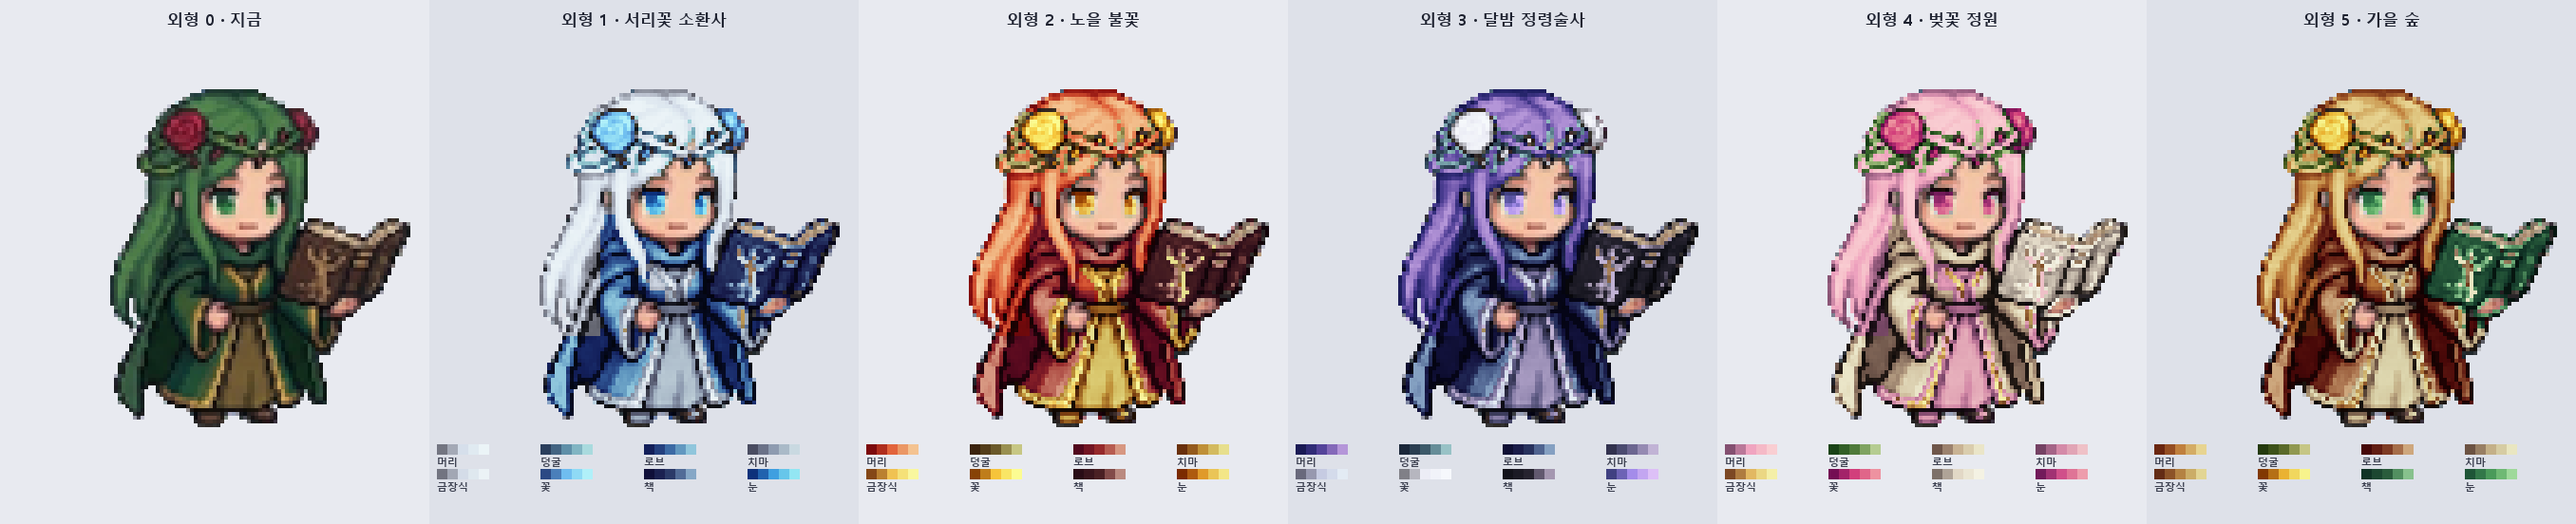
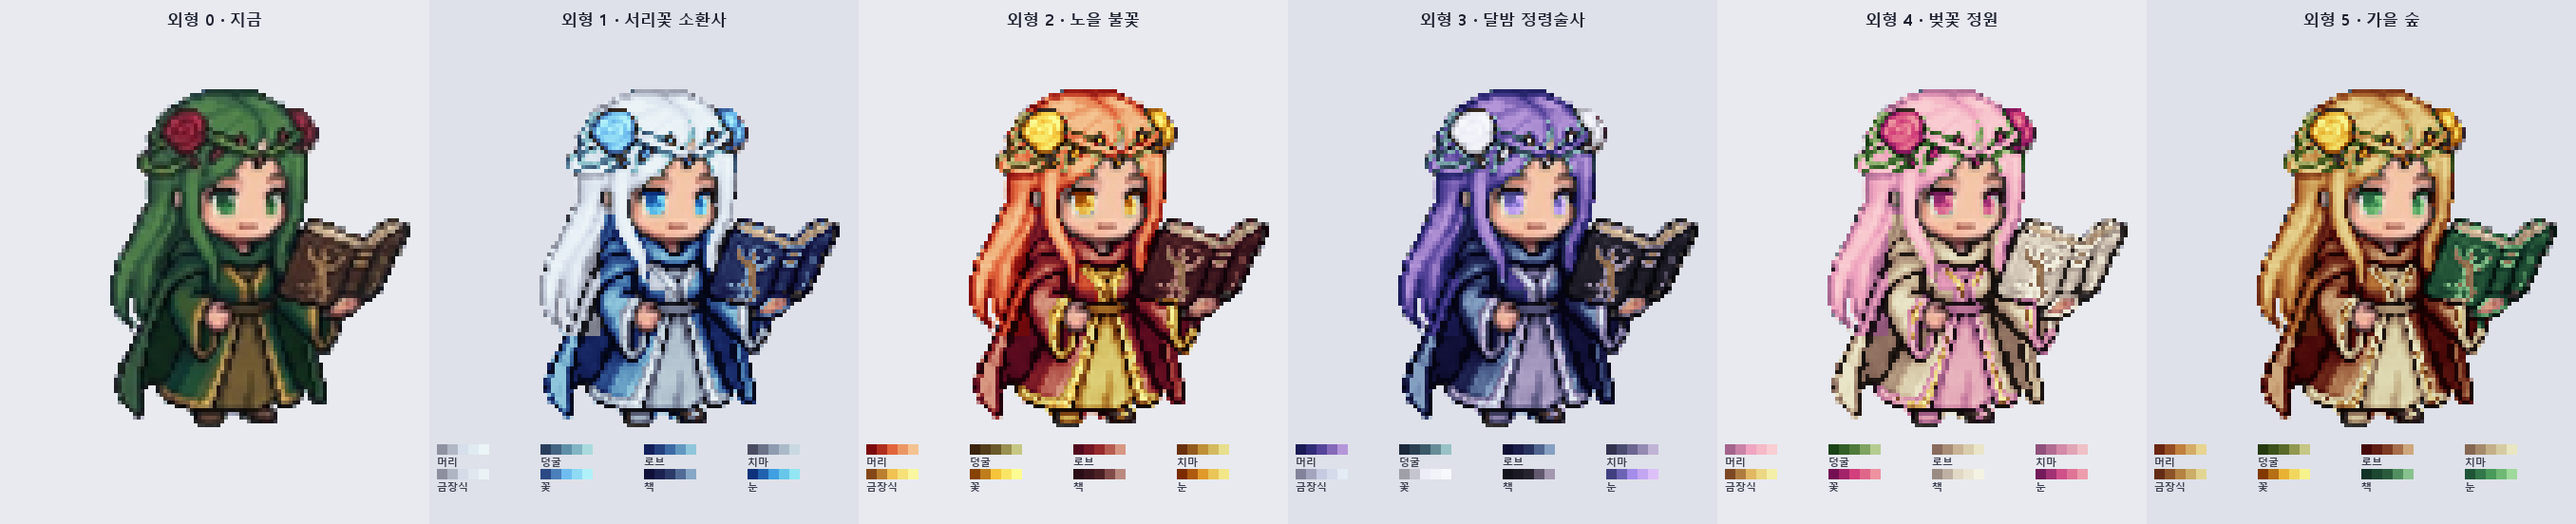
Summoner skin samples: clear the remaining blotches on the clothes
- Blue-grey robe edges: shadow pixels at the robe edges (hue 195-270) and light grey dots were in no part, so they kept their original colour as specks on the red and pink robes. Loose clothes pixels now join whichever robe, dress or trim part has the most of their 8 neighbours (two passes).
- Sleeve cuff trim: the gold trim on the right sleeve cuff was taken as the book's gold pattern and stayed gold. Below hand height, the book box now starts at x 84.
- Dress trim: dull gold trim on the dress (hue above 32) passed the skin test and stayed gold. On the body it now goes to trim or dress; skin hue is below 30.
- Dark shadows on light cloth: on the cream robe of skin 4, the deep shadow folds became near-black brown patches. Light, pale target colours (value above 0.7, saturation under 0.35) now drop less into shadow. The extra darkening under the ramp goes to 0.35x for hair, which keeps its strands, but only to 0.7x for clothes and the book.

diff --git a/tools/summoner_palette_preview.py b/tools/summoner_palette_preview.py
@@ -40,6 +40,8 @@ def toward(h, target, amt):
 def ramp_color(base, t, dark=0.45, light=0.62):
     """pixelstudio.ramp를 이어지는 값 t(0 어두움 ~ 1 밝음)로: 가운데(0.5) = base"""
     h, s, v = colorsys.rgb_to_hsv(*hexrgb(base)); hd = h * 360
+    if v > 0.7 and s < 0.35:   # 크림·은백처럼 밝고 연한 색: 그늘을 덜 내림 (많이 내리면 채도 없는 흙빛 얼룩)
+        dark = min(dark, 0.32)
     v_dark = max(0.06, v * (1 - dark)); v_light = min(1.0, v + (1 - v) * light)
     if t < 0.5:
         u = (0.5 - t) * 2
@@ -87,15 +89,32 @@ def masks(im):
     hair &= ~vine
     reddish = a & ((h >= 330) | (h < 12)) & (s > 0.35) & ~outline
     bookbox = (xx >= 73) & (yy >= 46) & (yy < 78)
+    bookbox &= (yy < 70) | (xx >= 84)   # 손 높이(y 70) 아래 x 84 왼쪽은 소매 끝 (금테가 책 금박으로 잡혀 원래 금색으로 남던 곳)
     book = a & ~outline & bookbox & ~skin & ~face & (((h < 40) | (h >= 330)) & (s > 0.2))
     bookgold = book & (h >= 28) & (v > 0.5)            # 책 표지 금박 무늬는 그대로
     book &= ~bookgold & (v < 0.5)   # 표지만 (밝은 종이 가장자리는 그대로)
     flower = reddish & (yy < 36)
     # 치마·금장식은 몸통(y 56 아래)에서만: 화관 가운데 누런 장식·입술이 치마·금장식이 되던 것 막음
-    warm = a & ~outline & ~skin & ~face & ~book & ~bookgold & ~flower & (h >= 12) & (h < 85) & (s > 0.2) & (yy >= 56)
+    # 몸통의 채도 낮은 금테(색조 32° 넘음)는 살색 기준에 걸려도 피부가 아님 (살색은 색조 30° 아래)
+    bodyskin = skin & ~((h > 32) & (yy >= 56) & ~bookbox)
+    warm = a & ~outline & ~bodyskin & ~face & ~book & ~bookgold & ~flower & ~bookbox & (h >= 12) & (h < 85) & (s > 0.2) & (yy >= 56)
     trim = warm & (s > 0.45) & (v > 0.5)
     skirt = warm & ~trim
     parts = dict(hair=hair, vine=vine, robe=robe, skirt=skirt, trim=trim, flower=flower, book=book, eyes=eyes)
+    # 옷의 빈 픽셀: 로브 가장자리 푸른빛 회색 그늘(색조 195~270°)·밝은 회색 점은 어느 부위에도 안 들어가 원래 색 얼룩으로 남음
+    #   → 둘레 8칸에 가장 많은 옷 부위(로브·치마·금장식)로 (두 번 돌려 2칸 띠까지)
+    assigned = np.zeros((H, W), bool)
+    for m in parts.values(): assigned |= m
+    cool = (h >= 185) & (h < 270) & (s > 0.08)
+    grayish = (s < 0.1) & (v > 0.3)
+    loose = a & ~assigned & ~outline & (yy >= 54) & ~bookbox & ~face & (cool | grayish)
+    for _ in range(2):
+        votes = [ndi.convolve(parts[k].astype(int), np.ones((3, 3), int), mode='constant') for k in ('robe', 'skirt', 'trim')]
+        best = np.argmax(votes, axis=0); has = np.max(votes, axis=0) > 0
+        for i, k in enumerate(('robe', 'skirt', 'trim')):
+            take = loose & has & (best == i)
+            parts[k] |= take
+        loose &= ~has
     # 윤곽선 (selout): 검은 윤곽 픽셀은 가장 가까운 부위(2칸 안)의 것으로. 피부·흰자에 붙은 윤곽, 얼굴 안 윤곽(눈 테두리 빼고)은 그대로
     line = a & outline
     keys = list(parts)
@@ -128,7 +147,8 @@ def recolor(im, parts, val, colors, lines=None):
         # 계단 아래 5%보다 어두운 픽셀(머리카락 결·접힌 선)은 계단 맨 아래 색에서 원래 어두운 만큼 더 어둡게 → 밝은 머리도 결이 뭉개지지 않음
         under = t < 0
         if under.any():
-            k_ = np.clip(val[m][under] / max(1e-3, lo), 0.35, 1.0)
+            # 머리는 결이 살게 0.35배까지, 옷·책 등은 0.7배까지만 (밝은 크림 로브 깊은 그늘이 검은 얼룩이 되지 않게)
+            k_ = np.clip(val[m][under] / max(1e-3, lo), 0.35 if k in ('hair', 'vine') else 0.7, 1.0)
             cols[under] = cols[under] * k_[:, None]
         out[m, :3] = cols * 255
         if lines is not None and lines[k].any():

diff --git a/docs/summoner-skin-palette.md b/docs/summoner-skin-palette.md
@@ -36,6 +36,7 @@
 - 머리 갈래: 얼굴 양옆에서 로브 위로 늘어진 두 갈래가 로브 색이었음 → 어깨 아래는 자리 대신 색으로 나눔 (머리 초록 색조 103~140°·밝음, 로브 초록 145~177°·어두움, 경계 142°)
 - 눈 둘레 갈색 테: 원래 흰자가 초록빛 회색이라 얼굴 선으로 잡혀 갈색이 됐었음 → 얼굴 안 선을 넷으로 나눔: 흰자(밝기 0.5 위) = 무채색 그대로, 눈 모서리 그늘 = 그 외형 눈동자 계단 맨 아래 색, 머리와 맞닿은 선 = 머리 윤곽 색, 나머지 진한 속눈썹 = 거의 검은 갈색(밝기 0.2까지)
 - 로브 얼룩: 로브 밝은 면도 색조가 142° 아래로 내려가는 곳(오른쪽 소매·아랫자락)이 머리로 잡혀 머리색 얼룩이 생겼었음 → 색으로 잡는 머리는 손 높이(y 80) 위에서, 머리에서 이어진 덩어리만
+- 옷 얼룩 (2차): 로브 가장자리 푸른빛 회색 그늘(색조 195~270°)·밝은 회색 점이 어느 부위에도 안 들어가 원래 색으로 남았음 → 둘레 8칸에 가장 많은 옷 부위로. 오른쪽 소매 끝 금테는 책 금박으로, 치마의 채도 낮은 금테(색조 32° 넘음)는 살색으로 잡혀 원래 금색이었음 → 소매 끝은 책 상자에서 빼고, 몸통의 그런 금테는 금장식·치마로. 밝고 연한 목표 색(크림·은백)은 그늘을 덜 내리고, 계단 아래 연장은 머리만 0.35배·옷은 0.7배까지 (4번 크림 로브 깊은 그늘이 흙빛 얼룩이 되던 것)
 
 ## 고를 때 볼 점
 - 4 벚꽃 정원의 크림 로브는 밝아서 치마와 대비가 약하다. 고르면 로브를 한 단 어둡게 잡는다.
